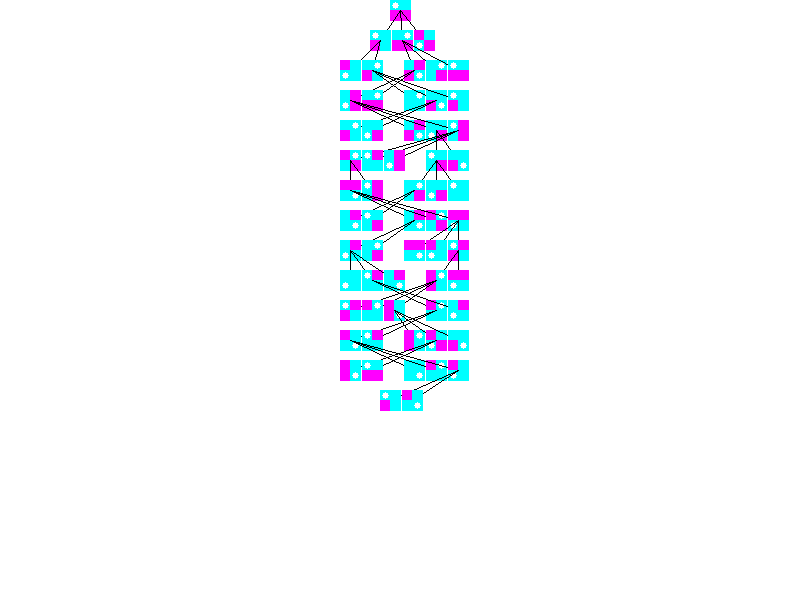
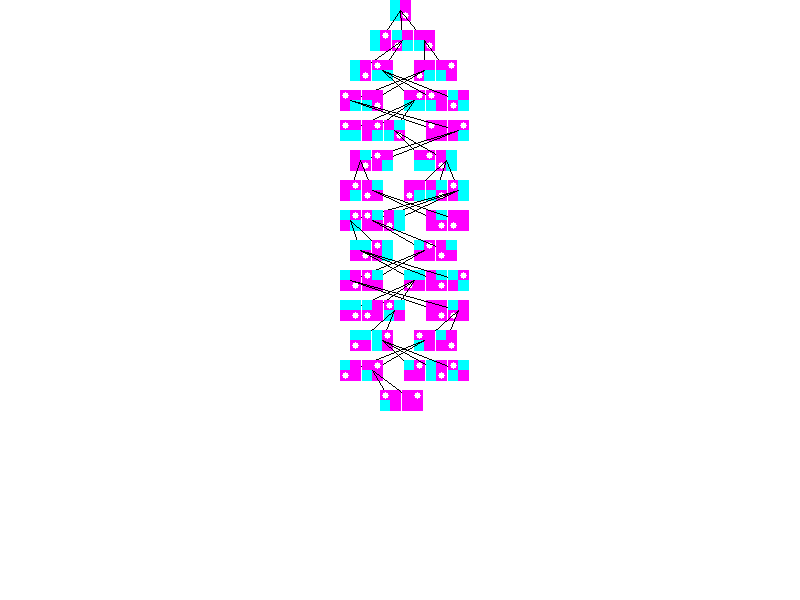
deduped

Changed region(s): [[0.4062, 0.0, 0.5938, 0.69]]

diff --git a/color_squares.py b/color_squares.py
@@ -20,6 +20,7 @@ def setVal(vec, val, grid): # spec is a boolean that indicates if the update is 
 
 class Board():
     def __init__(self, width, height, start = False, branchDup = True):
+        print('Creating board')
         self.width = width
         self.height = height
         if not start:
@@ -151,6 +152,43 @@ class Board():
                         branch.append(node)
                     branch.reverse()
                     self.branches.append(branch)
+    def group_tree(self):
+        print('Grouping tree')
+        distances = []
+        for node in self.tree:
+            # get distance from root node
+            distance = 0
+            while node.parent is not None:
+                distance += 1
+                node = node.parent
+            distances.append(distance)
+        # group nodes by distance
+        grouped = {}
+        for i, distance in enumerate(distances):
+            if distance not in grouped:
+                grouped[distance] = []
+            grouped[distance].append(self.tree[i])
+        # within each group, group by parent
+        for distance in grouped:
+            group = grouped[distance]
+            parents = set([node.parent for node in group])
+            grouped_group  = {}
+            for parent in parents:
+                states = set()
+                if parent is None:
+                    parent_name = None
+                else:
+                    parent_name = self.print(parent.state, parent.action, False)
+                grouped_group[parent_name] = set()
+                for node in group:
+                    if node.parent == parent:
+                        p = self.print(node.state, node.action, False).lower()
+                        if p not in states:
+                            states.add(p)
+                            grouped_group[parent_name].add(node)
+            grouped[distance] = grouped_group
+        print(grouped)
+        return grouped
 
 
     
@@ -171,10 +209,11 @@ class Board():
                         index = pgrids.index(p)
                         for n in branch[index + 1:]:
                             dup_node = Node(state=n.state, parent=parent, action=n.action)
-                            self.tree.append(dup_node)
+                            if dup_node not in self.tree:
+                                self.tree.append(dup_node)
                             parent = dup_node
                         break
-
+    '''
     # group the tree by distance from the root node
     def group_tree(self):
         distances = []
@@ -215,6 +254,7 @@ class Board():
                             grouped_group[parent_name].add(node)
             grouped[distance] = grouped_group
         return grouped
+    '''
     def solve_random(self):
         while self.grid != self.goal:
             self.makeRandomMove()

diff --git a/color_squares_cv.py b/color_squares_cv.py
@@ -83,6 +83,7 @@ class BoardCV(Board):
 
         # Save the image
         cv2.imwrite(file, image)
+        
 if __name__ == '__main__':
     board = BoardCV(2, 2, 10)#, start = [['Y', 'y'], ['y', 'c']])
     board.print()
